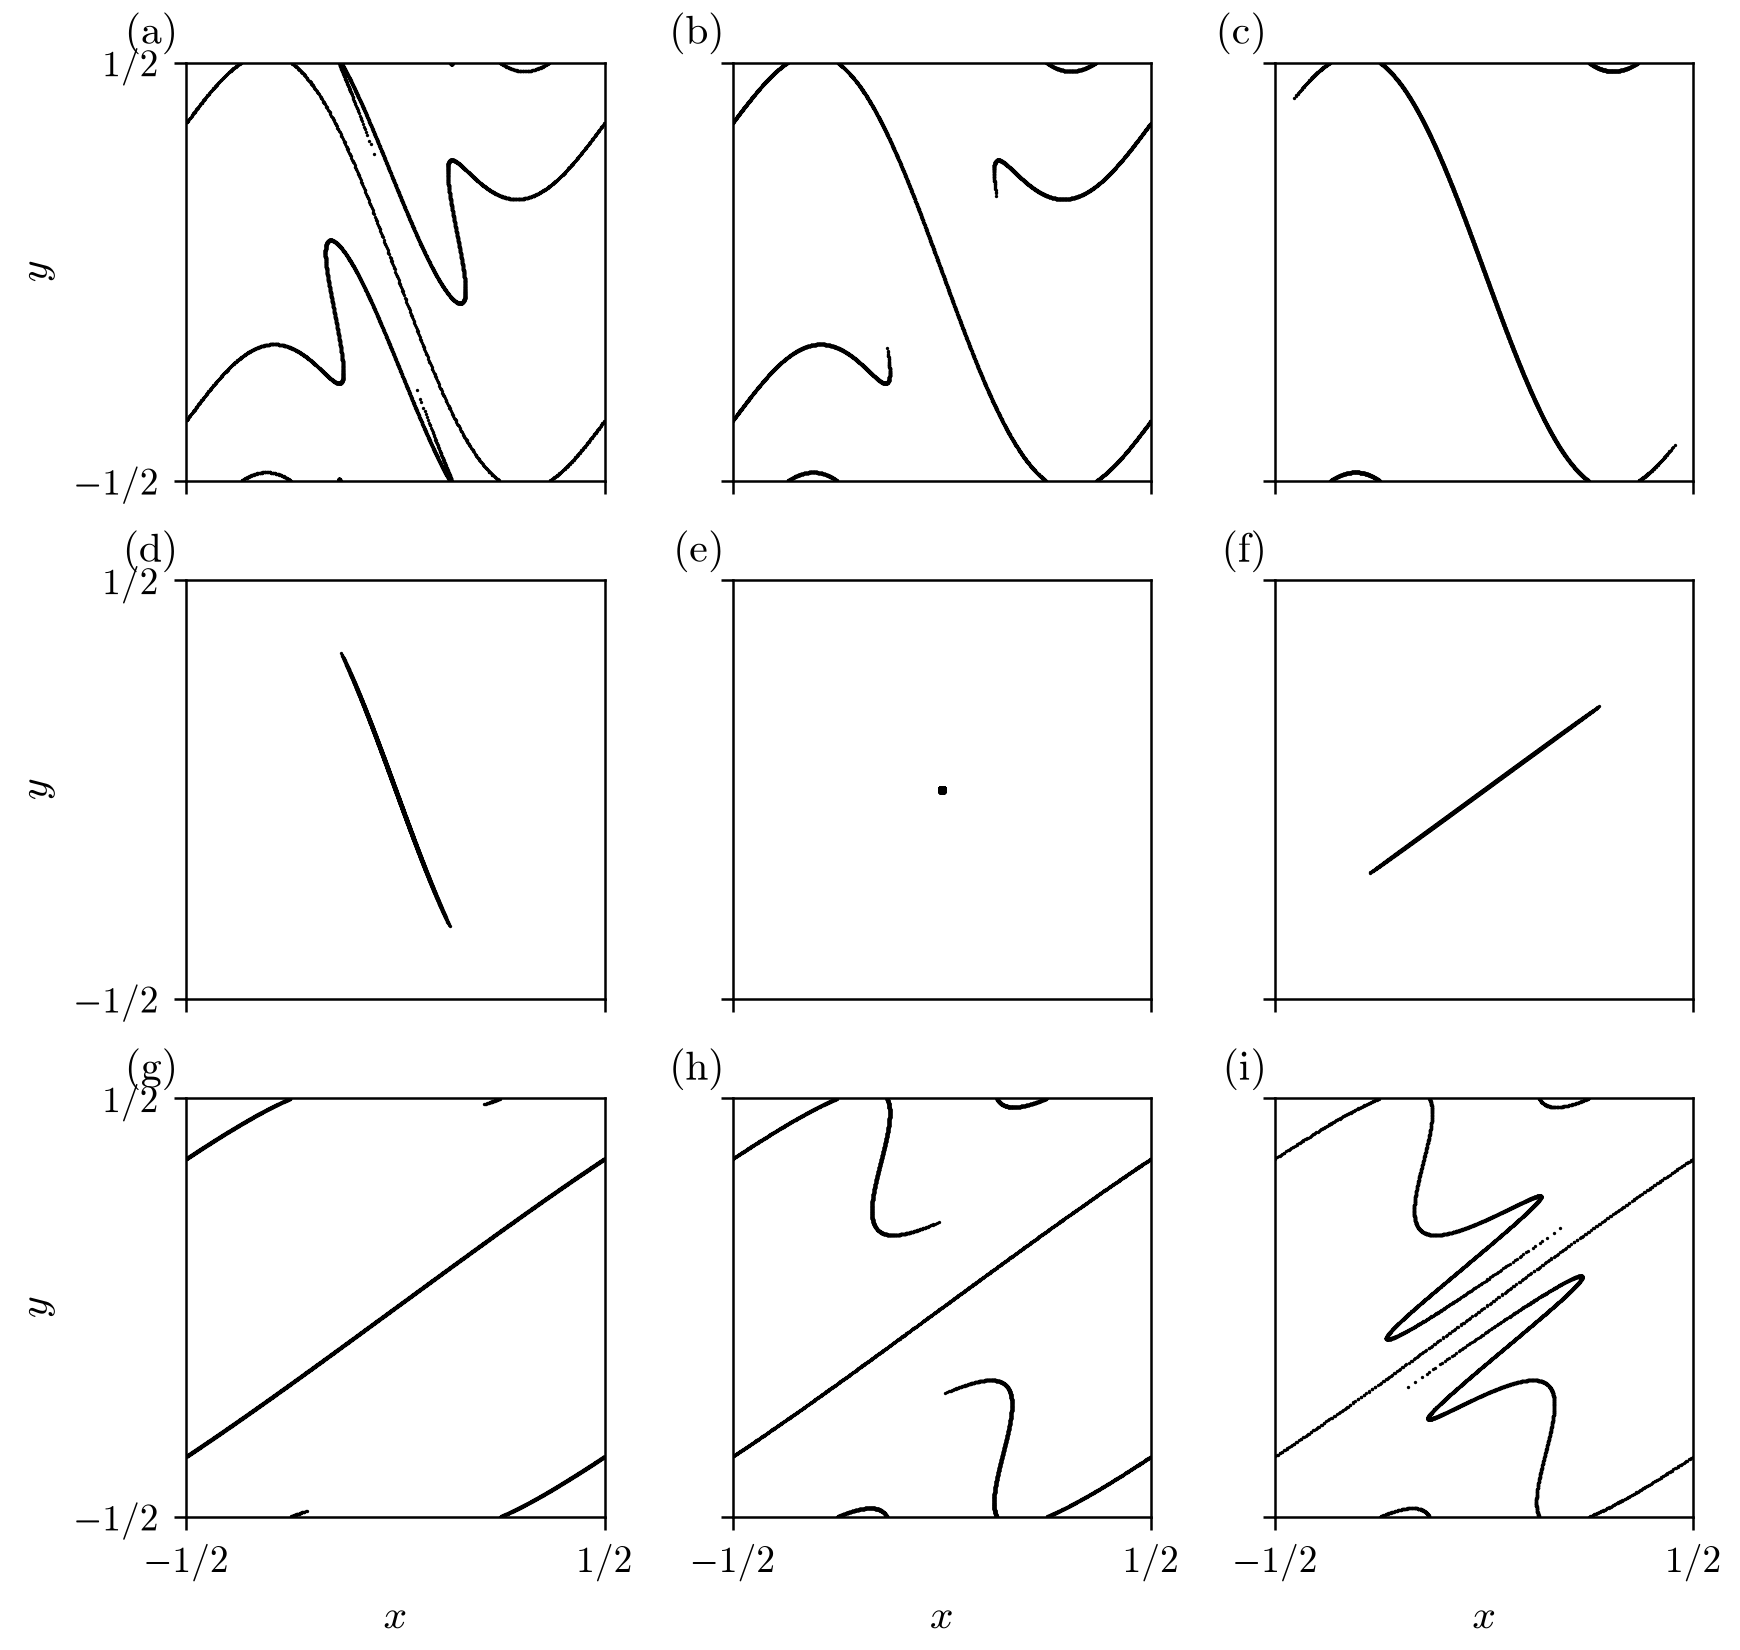
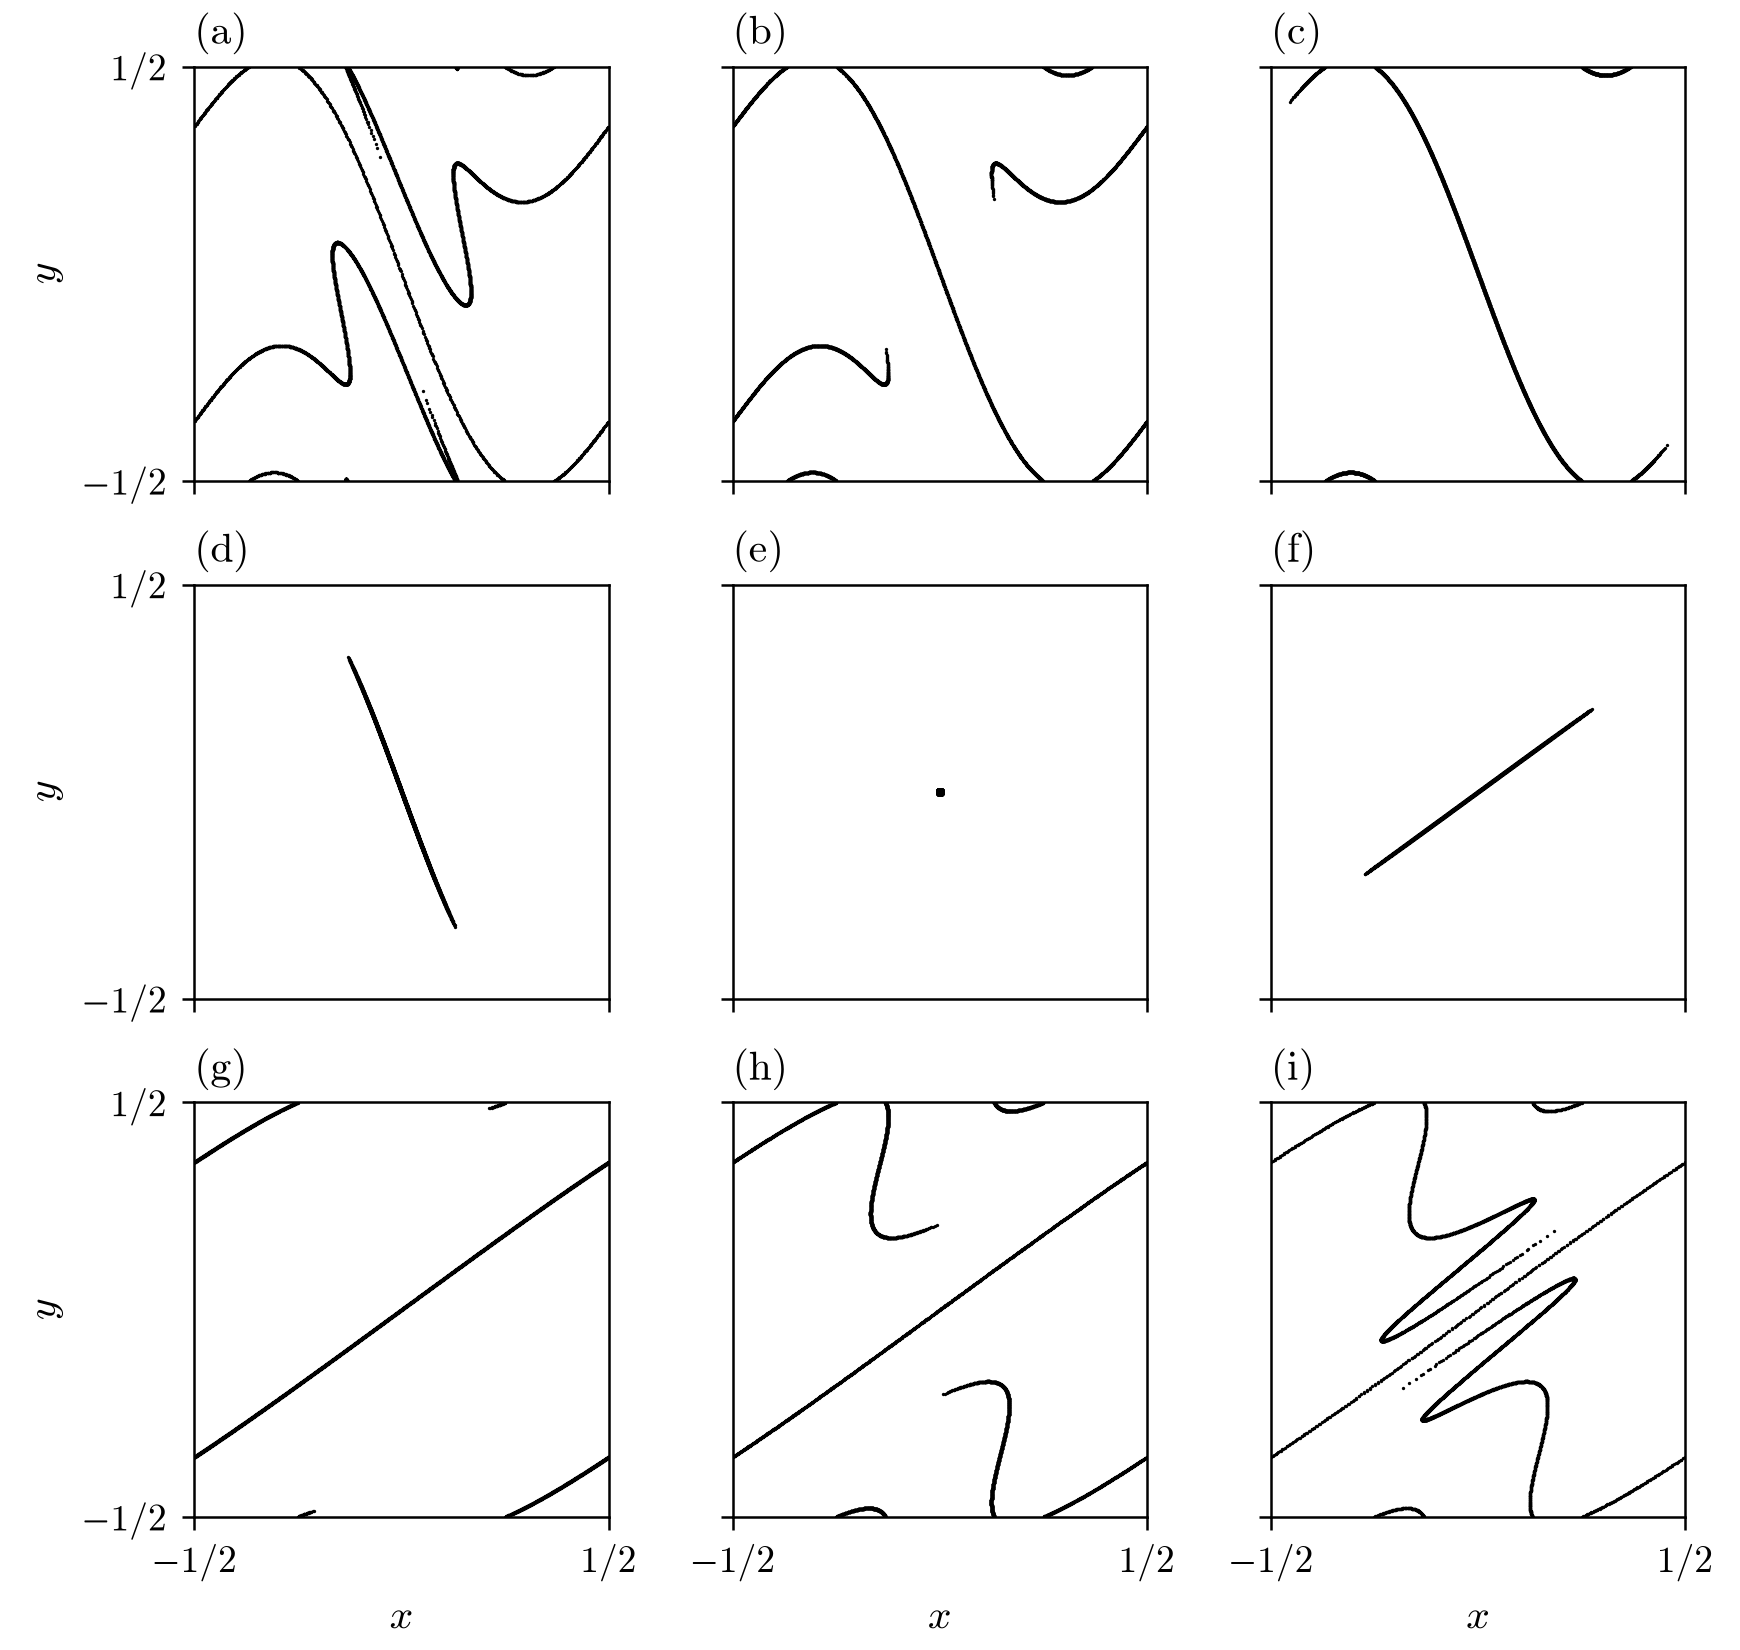
bookfig: panel labels above the frame's top-left corner (clear of tick labels), 3-D axes supported

diff --git a/creators/python/bookfig.py b/creators/python/bookfig.py
@@ -54,9 +54,12 @@ def out(chapter):
     return p
 
 
-def panel_labels(axes, order="row", start=0, loc=(0.0, 1.0), pad=(-0.02, 0.02),
+def panel_labels(axes, order="row", start=0, loc=(0.0, 1.0), pad=(0.0, 0.03),
                  **kw):
-    """Write (a), (b), ... at the top left, just outside each axes.
+    """Write (a), (b), ... just above the top-left corner of each axes.
+
+    Above the frame rather than beside it, so the label never sits on the
+    top y tick label. Works for 2-D and 3-D axes.
 
     axes  : a 2-D array from plt.subplots, or a flat list in label order.
     order : "row" labels across rows first, "col" down columns first (so a
@@ -69,14 +72,17 @@ def panel_labels(axes, order="row", start=0, loc=(0.0, 1.0), pad=(-0.02, 0.02),
     else:
         flat = arr.ravel()
     style = dict(fontsize=matplotlib.rcParams["axes.labelsize"],
-                 va="bottom", ha="right")
+                 va="bottom", ha="left")
     style.update(kw)
     for i, ax in enumerate(flat):
         if ax is None or not ax.get_visible():
             continue
-        ax.text(loc[0] + pad[0], loc[1] + pad[1],
-                f"({ascii_lowercase[start + i]})",
-                transform=ax.transAxes, **style)
+        x, y = loc[0] + pad[0], loc[1] + pad[1]
+        s = f"({ascii_lowercase[start + i]})"
+        if getattr(ax, "name", "") == "3d":
+            ax.text2D(x, y, s, transform=ax.transAxes, **style)
+        else:
+            ax.text(x, y, s, transform=ax.transAxes, **style)
 
 
 def save(fig, path, check=True):
